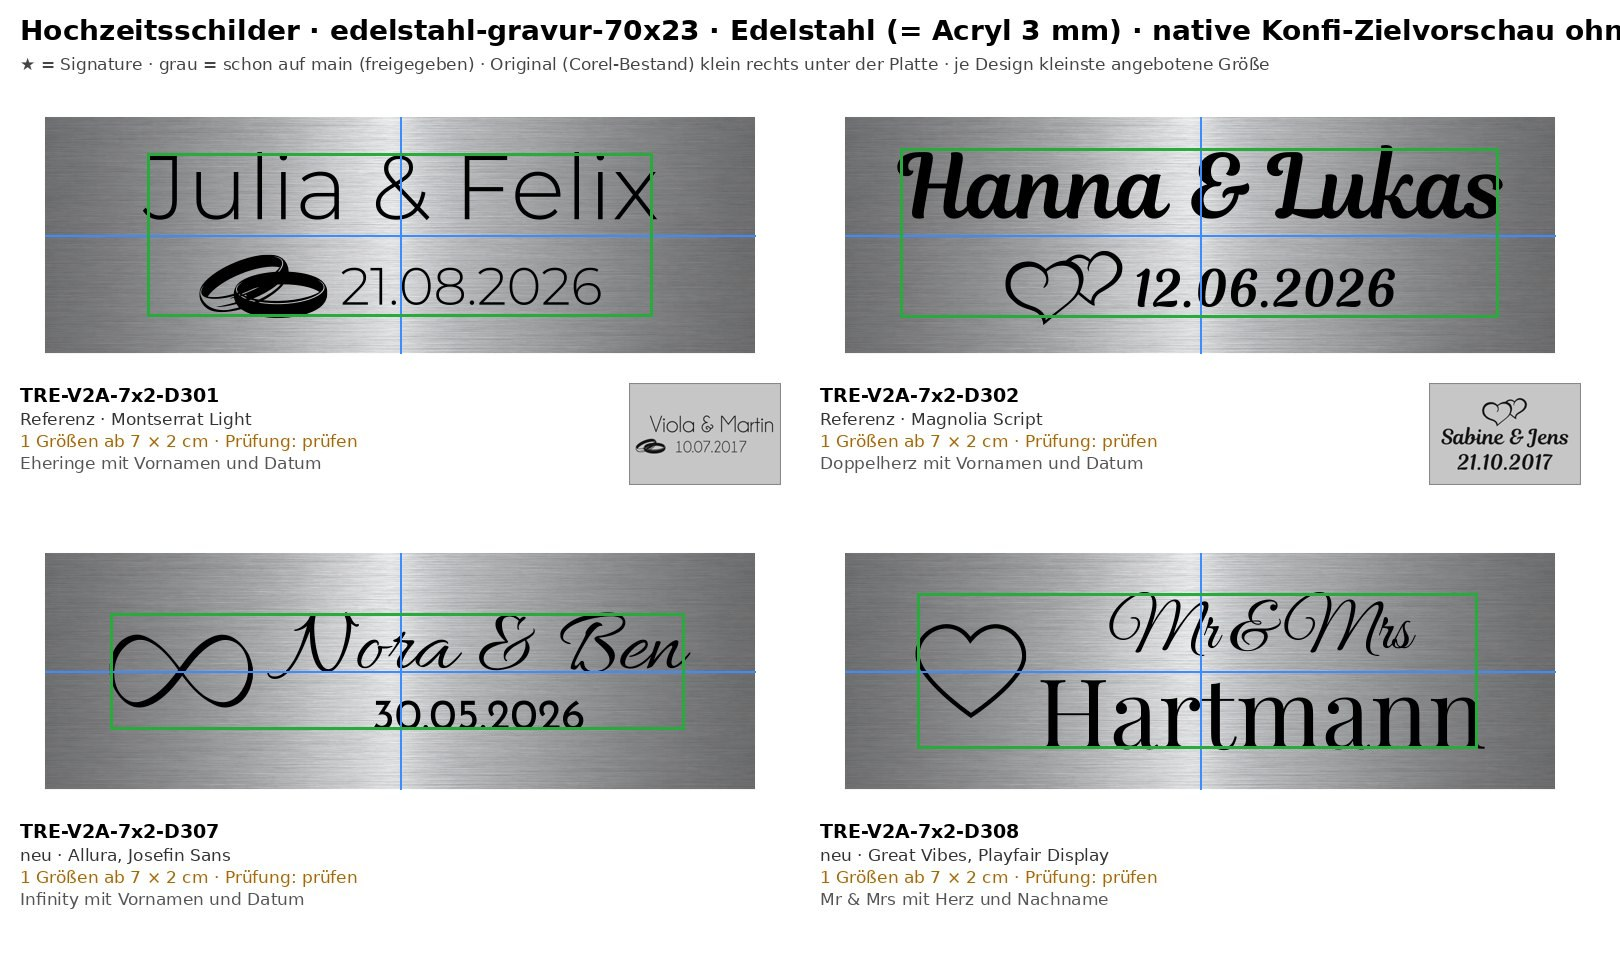
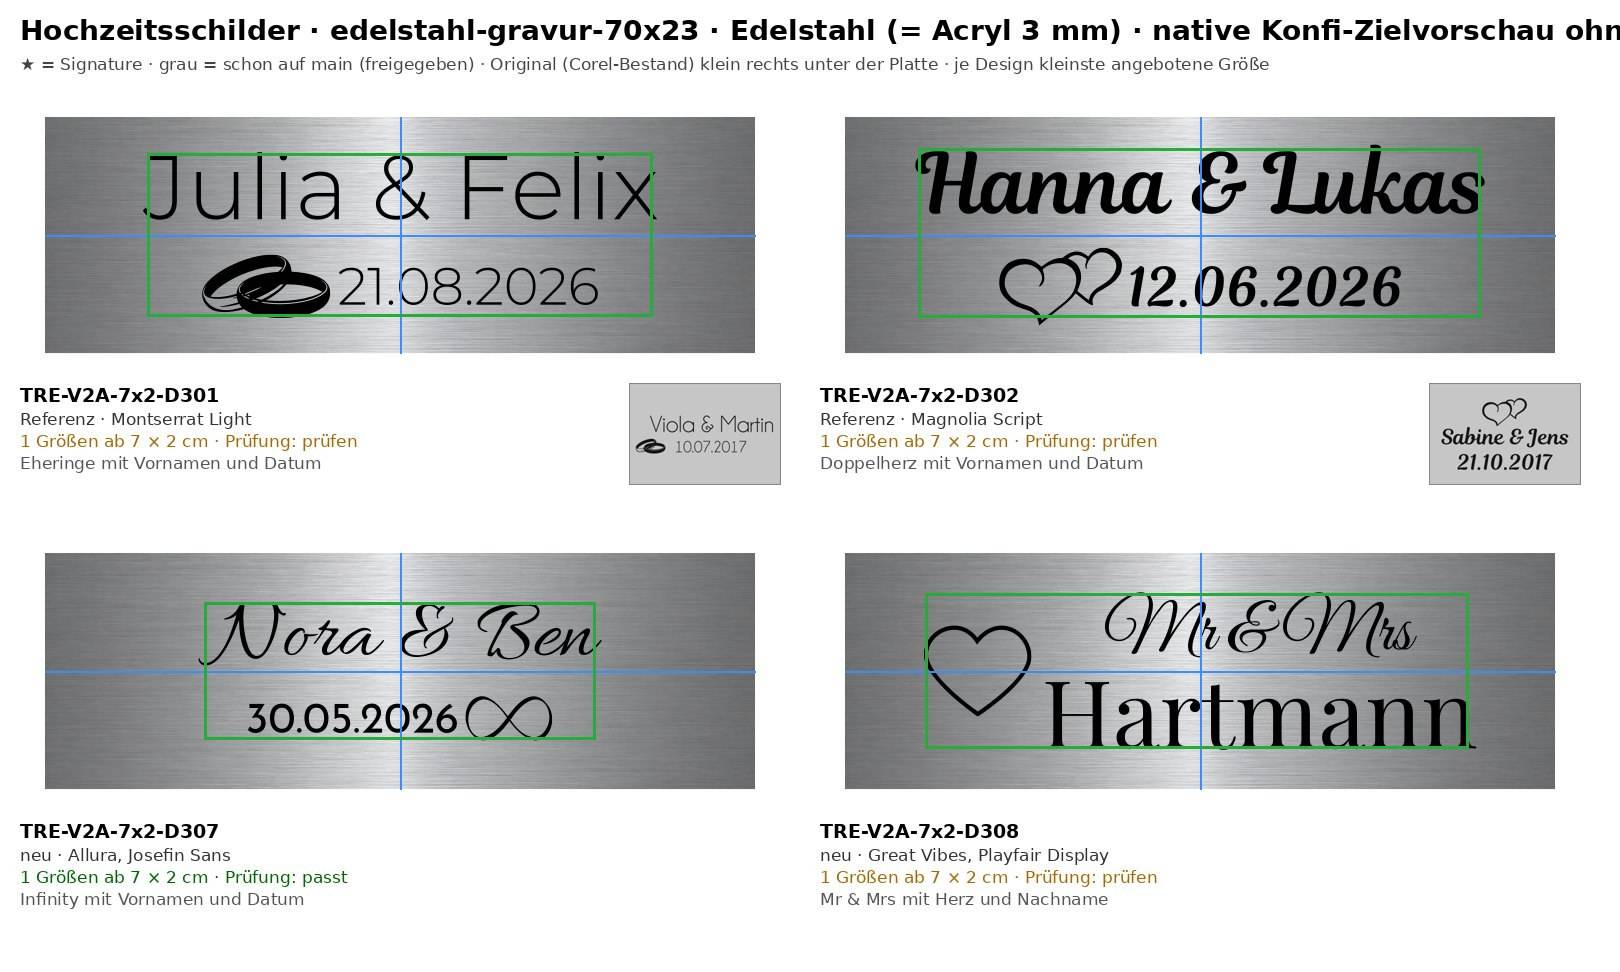
Hochzeitsschilder: Kontaktbögen aller 15 Formatreihen (D300–D312) mit Freiflächen-Messung und Bericht
Claude-Session: https://claude.ai/code/session_01TFZAfd3zBRL6y6PGwVXrsG

diff --git a/docs/handoffs/hochzeitsschilder-20261101/BERICHT.md b/docs/handoffs/hochzeitsschilder-20261101/BERICHT.md
@@ -1,0 +1,92 @@
+# Hochzeitsschilder (Edelstahl-Türschilder = Acryl 3 mm) – Bericht Neustart 02.11.2026
+
+Auftrag: gravuru-2027 #111 · Katalog-PR (Entwurf): https://github.com/Chris83638w/gravuru-katalog./pull/140 · Branch `dev/hochzeitsschilder-fertig-20261101-claude`
+
+## Was passiert ist
+1. **Kennungskollision:** Die Willkommensschilder belegen auf main D200–D207 in allen Edelstahl-Reihen (freigegeben, live). Die Hochzeitsdesigns des Vorgängers (D200–D212) sind aus dem Branch entfernt und als **D300–D312** neu erzeugt (gleiche Reihenfolge). Nicht committete Vorgänger-Stände: Stash „Vorgänger unfertig …“ (lokale Marke `hz-vorgaenger-unfertig-20261102`), nicht übernommen – reproduzierbar, aber mit den kollidierenden Kennungen.
+2. main mit Freiflächen-Regel §7 eingemergt. Alle Designs nach §7 neu angeordnet (Gruppe nach sichtbarer Gravur mittig, Fläche nutzen, eigene Anordnung je Format), 1:1-Originale unverändert (nur Beispielnamen).
+3. Kontaktbögen aus der nativen Konfi-Zielvorschau (Port 4410), ohne Bohrlöcher, je Design kleinste angebotene Größe, Corel-Original klein daneben, Signature ★.
+
+## Kontaktbögen (je auch `-markiert.jpg` mit Messrahmen)
+- [50x20](https://github.com/Chris83638w/gravuru-2027/blob/dev/hochzeitsschilder-fertig-20261101/docs/handoffs/hochzeitsschilder-20261101/50x20.jpg?raw=true) · [markiert](https://github.com/Chris83638w/gravuru-2027/blob/dev/hochzeitsschilder-fertig-20261101/docs/handoffs/hochzeitsschilder-20261101/50x20-markiert.jpg?raw=true)
+- [60x20](https://github.com/Chris83638w/gravuru-2027/blob/dev/hochzeitsschilder-fertig-20261101/docs/handoffs/hochzeitsschilder-20261101/60x20.jpg?raw=true) · [markiert](https://github.com/Chris83638w/gravuru-2027/blob/dev/hochzeitsschilder-fertig-20261101/docs/handoffs/hochzeitsschilder-20261101/60x20-markiert.jpg?raw=true)
+- [70x23](https://github.com/Chris83638w/gravuru-2027/blob/dev/hochzeitsschilder-fertig-20261101/docs/handoffs/hochzeitsschilder-20261101/70x23.jpg?raw=true) · [markiert](https://github.com/Chris83638w/gravuru-2027/blob/dev/hochzeitsschilder-fertig-20261101/docs/handoffs/hochzeitsschilder-20261101/70x23-markiert.jpg?raw=true)
+- [80x20](https://github.com/Chris83638w/gravuru-2027/blob/dev/hochzeitsschilder-fertig-20261101/docs/handoffs/hochzeitsschilder-20261101/80x20.jpg?raw=true) · [markiert](https://github.com/Chris83638w/gravuru-2027/blob/dev/hochzeitsschilder-fertig-20261101/docs/handoffs/hochzeitsschilder-20261101/80x20-markiert.jpg?raw=true)
+- [80x35](https://github.com/Chris83638w/gravuru-2027/blob/dev/hochzeitsschilder-fertig-20261101/docs/handoffs/hochzeitsschilder-20261101/80x35.jpg?raw=true) · [markiert](https://github.com/Chris83638w/gravuru-2027/blob/dev/hochzeitsschilder-fertig-20261101/docs/handoffs/hochzeitsschilder-20261101/80x35-markiert.jpg?raw=true)
+- [90x30](https://github.com/Chris83638w/gravuru-2027/blob/dev/hochzeitsschilder-fertig-20261101/docs/handoffs/hochzeitsschilder-20261101/90x30.jpg?raw=true) · [markiert](https://github.com/Chris83638w/gravuru-2027/blob/dev/hochzeitsschilder-fertig-20261101/docs/handoffs/hochzeitsschilder-20261101/90x30-markiert.jpg?raw=true)
+- [80x53](https://github.com/Chris83638w/gravuru-2027/blob/dev/hochzeitsschilder-fertig-20261101/docs/handoffs/hochzeitsschilder-20261101/80x53.jpg?raw=true) · [markiert](https://github.com/Chris83638w/gravuru-2027/blob/dev/hochzeitsschilder-fertig-20261101/docs/handoffs/hochzeitsschilder-20261101/80x53-markiert.jpg?raw=true)
+- [ab-80x53](https://github.com/Chris83638w/gravuru-2027/blob/dev/hochzeitsschilder-fertig-20261101/docs/handoffs/hochzeitsschilder-20261101/ab-80x53.jpg?raw=true) · [markiert](https://github.com/Chris83638w/gravuru-2027/blob/dev/hochzeitsschilder-fertig-20261101/docs/handoffs/hochzeitsschilder-20261101/ab-80x53-markiert.jpg?raw=true)
+- [80x80](https://github.com/Chris83638w/gravuru-2027/blob/dev/hochzeitsschilder-fertig-20261101/docs/handoffs/hochzeitsschilder-20261101/80x80.jpg?raw=true) · [markiert](https://github.com/Chris83638w/gravuru-2027/blob/dev/hochzeitsschilder-fertig-20261101/docs/handoffs/hochzeitsschilder-20261101/80x80-markiert.jpg?raw=true)
+- [65x65-rund](https://github.com/Chris83638w/gravuru-2027/blob/dev/hochzeitsschilder-fertig-20261101/docs/handoffs/hochzeitsschilder-20261101/65x65-rund.jpg?raw=true) · [markiert](https://github.com/Chris83638w/gravuru-2027/blob/dev/hochzeitsschilder-fertig-20261101/docs/handoffs/hochzeitsschilder-20261101/65x65-rund-markiert.jpg?raw=true)
+- [oval-90x60](https://github.com/Chris83638w/gravuru-2027/blob/dev/hochzeitsschilder-fertig-20261101/docs/handoffs/hochzeitsschilder-20261101/oval-90x60.jpg?raw=true) · [markiert](https://github.com/Chris83638w/gravuru-2027/blob/dev/hochzeitsschilder-fertig-20261101/docs/handoffs/hochzeitsschilder-20261101/oval-90x60-markiert.jpg?raw=true)
+- [oval-120x40](https://github.com/Chris83638w/gravuru-2027/blob/dev/hochzeitsschilder-fertig-20261101/docs/handoffs/hochzeitsschilder-20261101/oval-120x40.jpg?raw=true) · [markiert](https://github.com/Chris83638w/gravuru-2027/blob/dev/hochzeitsschilder-fertig-20261101/docs/handoffs/hochzeitsschilder-20261101/oval-120x40-markiert.jpg?raw=true)
+- [oval-150x80](https://github.com/Chris83638w/gravuru-2027/blob/dev/hochzeitsschilder-fertig-20261101/docs/handoffs/hochzeitsschilder-20261101/oval-150x80.jpg?raw=true) · [markiert](https://github.com/Chris83638w/gravuru-2027/blob/dev/hochzeitsschilder-fertig-20261101/docs/handoffs/hochzeitsschilder-20261101/oval-150x80-markiert.jpg?raw=true)
+- [retro1-90x60](https://github.com/Chris83638w/gravuru-2027/blob/dev/hochzeitsschilder-fertig-20261101/docs/handoffs/hochzeitsschilder-20261101/retro1-90x60.jpg?raw=true) · [markiert](https://github.com/Chris83638w/gravuru-2027/blob/dev/hochzeitsschilder-fertig-20261101/docs/handoffs/hochzeitsschilder-20261101/retro1-90x60-markiert.jpg?raw=true)
+- [retro2-91x61](https://github.com/Chris83638w/gravuru-2027/blob/dev/hochzeitsschilder-fertig-20261101/docs/handoffs/hochzeitsschilder-20261101/retro2-91x61.jpg?raw=true) · [markiert](https://github.com/Chris83638w/gravuru-2027/blob/dev/hochzeitsschilder-fertig-20261101/docs/handoffs/hochzeitsschilder-20261101/retro2-91x61-markiert.jpg?raw=true)
+
+## Inventur je Formatreihe (angebotene Hochzeitsdesigns je Größe, vorher = main)
+| Reihe | Größen | vorher | nachher | Soll |
+|---|---|---|---|---|
+| 5×2, 6×2, 7×2, 8×2 | je 1 | 0 | 4 | 4 |
+| 8×3,5 (80x35) | 6 | je 2 (D66/D67) | 8×3,5: 6 · ab 12×5,25: 14 | 4 / 8 |
+| 9×3 (90x30) | 7 | je 2 | 9×3 und 12×4: 6 · ab 15×5: 14 | 4 / 8 |
+| 8×5 (80x53) und abgerundet | je 10 | je 2 | 8×5: 6 · ab 9×6: 14 | 4 / 8 |
+| Quadrat 8×8 | 7 | je 2 | 14 | 8 |
+| Rund 6,5 | 5 | je 2 | 6,5: 6 · ab 8,5: 14 | 4 / 8 |
+| Oval 12×4 | 7 | je 2 | 12×4: 6 · ab 15×5: 14 | 4 / 8 |
+| Oval 9×6, Oval 15×8, Retro 1, Retro 2 | 7/3/7/7 | je 2 | 14 | 8 |
+
+Alle 80 Größen der Linie erfüllen das Soll. Freigaben: alle neuen Ziele offen (null).
+
+## Designs (gleiche D-Nummer = gleiches Design in allen Reihen)
+| D | Name | Vorlage | Modus | Schriften | Motiv | Größen |
+|---|---|---|---|---|---|---|
+| D300 | Tauben mit Vornamen und Datum | HZS-V2A-D0 | 1:1 (8×5, abgerundet, Oval 12×4/15×8, Retro) sonst Referenz | Tangerine | Tauben (Bestand) | ab 9×6 |
+| D301 | Eheringe mit Vornamen und Datum | HZS-V2A-D1 | dto. | Montserrat Light (Ersatz Champagne & Limousines) | Eheringe (Bestand) | alle |
+| D302 | Doppelherz mit Vornamen und Datum | HZS-V2A-D2 | dto. | Magnolia Script | Doppelherz-Kontur (Bestand) | alle |
+| D303 | Für immer dein – Herzpfeil | HZS-V2A-D3 | dto. | Daniel | Herzpfeil (Bestand) | ab 9×6 |
+| D304 | Rosenranke mit Vornamen und Datum | HZS-V2A-D4 | dto. | Alex Brush (vorläufig für Embassy BT) | Rosenranke (Bestand) | ab 9×6 |
+| D305 | Tauben im Herz | HZS-V2A-D5 | dto. | Parisienne | Tauben im Herz (Bestand) | ab 9×6 |
+| D306 | Brautpaar mit Eheringen | HZS-V2A-D6 | dto. | Kaushan Script (vorläufig für Summertime) | Brautpaar + Ringe (Bestand) | ab 9×6 |
+| D307 | Infinity mit Vornamen und Datum | ohne Vorlage | neu | Allura, Josefin Sans | motive/infinity/infinity-1.svg | alle |
+| D308 | Mr & Mrs mit Herz und Nachname | ohne Vorlage | neu | Great Vibes, Playfair Display | motive/herzen/herz-kontur.svg | alle |
+| ★ D310 | Monogramm mit Doppellinien bis zum Rand | ohne Vorlage | neu (Signature) | Cinzel Decorative, Montserrat, Montserrat Light | Zierlinien | ab 9×6 |
+| ★ D311 | Großes Et-Zeichen (ANNA & DAVID, Familienname · Datum) | ohne Vorlage | neu (Signature) | Cinzel, Great Vibes, Montserrat Light | – (Typo) | ab 9×6 |
+| ★ D312 | Herzlinie bis zum Rand | ohne Vorlage | neu (Signature) | Allura, Josefin Sans | motive/herzen/herzlinie-minimalistisch.svg + Linien | ab 9×6 |
+
+Beispielnamen erfunden, je Design verschieden, Daten gültig. Keine neuen Motive (motive-eigene unverändert).
+
+## Freiflächen-Messung (flaeche-messen.py, Stand 02.11.)
+| Reihe | gemessen | ok | Auffällig (Kennung · Messwert · Begründung) |
+|---|---|---|---|
+| 50x20 | 4 | 4 | – |
+| 60x20 | 4 | 4 | – |
+| 70x23 | 4 | 4 | – |
+| 80x20 | 4 | 4 | – |
+| 80x35 | 14 | 13 | D66: senkrecht -5 % (main-Bestand (nicht von mir)) |
+| 90x30 | 14 | 12 | D66: senkrecht -3 % (main-Bestand (nicht von mir)); D304: Höhe nur 44 % |
+| 80x53 | 14 | 12 | D66: senkrecht -11 % (main-Bestand (nicht von mir)); D301: Höhe nur 38 % |
+| ab-80x53 | 14 | 12 | D66: senkrecht -11 % (main-Bestand (nicht von mir)); D301: Höhe nur 38 % |
+| 80x80 | 14 | 13 | D66: senkrecht -7 % (main-Bestand (nicht von mir)) |
+| 65x65-rund | 14 | 10 | D66: senkrecht -3 % (main-Bestand (nicht von mir)); D67: senkrecht +4 % (main-Bestand (nicht von mir)); D304: Fläche nur 25 %; D307: Fläche nur 29 % |
+| oval-90x60 | 14 | 12 | D66: senkrecht -13 % (main-Bestand (nicht von mir)); D67: senkrecht -9 % (main-Bestand (nicht von mir)) |
+| oval-120x40 | 14 | 10 | D66: senkrecht -7 % (main-Bestand (nicht von mir)); D303: Fläche nur 28 %; D305: Fläche nur 22 %; D307: Fläche nur 26 % |
+| oval-150x80 | 14 | 10 | D66: senkrecht -11 % (main-Bestand (nicht von mir)); D67: senkrecht -4 % (main-Bestand (nicht von mir)); D301: Fläche nur 29 %, Höhe nur 40 %; D311: Fläche nur 28 %, Höhe nur 40 % |
+| retro1-90x60 | 14 | 12 | D66: senkrecht -11 % (main-Bestand (nicht von mir)); D301: Höhe nur 36 % |
+| retro2-91x61 | 14 | 10 | D66: senkrecht -6 % (main-Bestand (nicht von mir)); D301: Fläche nur 24 %, Höhe nur 32 %; D305: senkrecht +3 %; D311: Fläche nur 29 % |
+
+Begründungen: D301 auf 8×5/abgerundet/Retro/Oval 15×8 sowie D303/D305 auf Oval 12×4 und D305 auf Retro 2 sind **1:1-Corel-Originale** (gleiches Seitenverhältnis, laut Operator unverändert lassen). Rund/Oval werden gegen das umschreibende Rechteck gemessen; auf die echte Plattenfläche (× 1/0,785) bezogen liegen Rund D304/D307, Oval 12×4 D307 und Oval 15×8 D311 bei 32–37 %. 9×3 D304 liegt mit 44 % Höhe knapp unter dem Richtwert (breite Ranke). Retro 2 D311 (29 %): schmale Rahmenfläche der Retro-Form.
+
+## Startdesign-Vorschlag
+**D302 Doppelherz** als Platz 1 in jedem Produkt: echtes Verkaufsdesign aus dem Bestand, in allen 80 Größen vorhanden, Kontur-Herz (keine Schwarzfläche), klare Rangfolge Namen > Datum, wirkt auf Langformat, Quadrat, Rund und Oval gleich gut. Alternative für große Formate: ★ D311.
+
+## Offene Fragen an Chris
+1. Schriften der Vorlagen ohne Eintrag in der Ersatztabelle: **Embassy BT → Alex Brush** (D304) und **Summertime → Kaushan Script** (D306) vorläufig – bestätigen oder andere Schrift nennen.
+2. Retro 2: Corel-Bogen HZSR2 ist 127,4 × 89,9 (Verhältnis 1,42), die Reihe 91 × 61 (1,49). Die Designs sind eingepasst (Modus „1:1“, Gestaltung unverändert) – so lassen?
+3. Eheringe-Motiv (Bestand) enthält eine 0,03-mm-Glanzlinie (Konfi meldet „prüfen“). Entfernen erlaubt?
+
+## Selbstprüfung
+- Jedes Design im nativen Bogen angesehen; kein „passt nicht“ (170 Zielvorschauen), Meldungen nur Bohrloch-Hinweise (Bewertung ohne Befestigung), Glanzlinie (Frage 3) und Retro-2-Seitenverhältnis (Familie, betrifft auch D66/D67).
+- Kein Text unter 3 mm Versalhöhe auf der Mastergröße, keine Überlappungen (geprüft je Design), größte Füllfläche < 9 % der Platte.
+- Schwächen ehrlich: Tauben (D300/D305) und Brautpaar (D306) sind kleine gefüllte Silhouetten aus dem Bestand; D304-Ranke wirkt auf 9×3 eher zart; Signature D312 auf Ovalen mit kürzeren Linien (Kontur).
+- Werkzeug: Generator \`scratchpad/hz2/build.py\` (aus dem des Vorgängers weiterentwickelt), nicht im Repo.
